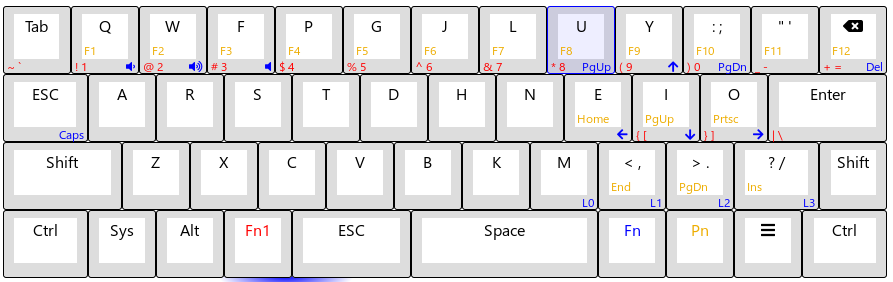
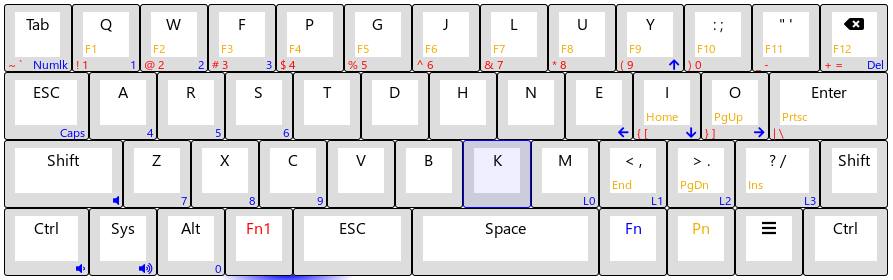
update my config

diff --git a/README.md b/README.md
@@ -1,5 +1,7 @@
 # MPC Config
+https://tsfreddie.github.io/much-programming-core/
 
 My Vortex Core layout configuration.
+![alt text](https://raw.githubusercontent.com/winardiaris/mpc-config/master/layer1.png "Layer 1 & 2")  
 
-![alt text](https://raw.githubusercontent.com/winardiaris/mpc-config/master/layer3.png "Layer 3")
+![alt text](https://raw.githubusercontent.com/winardiaris/mpc-config/master/layer3.png "Layer 3 & 4")
